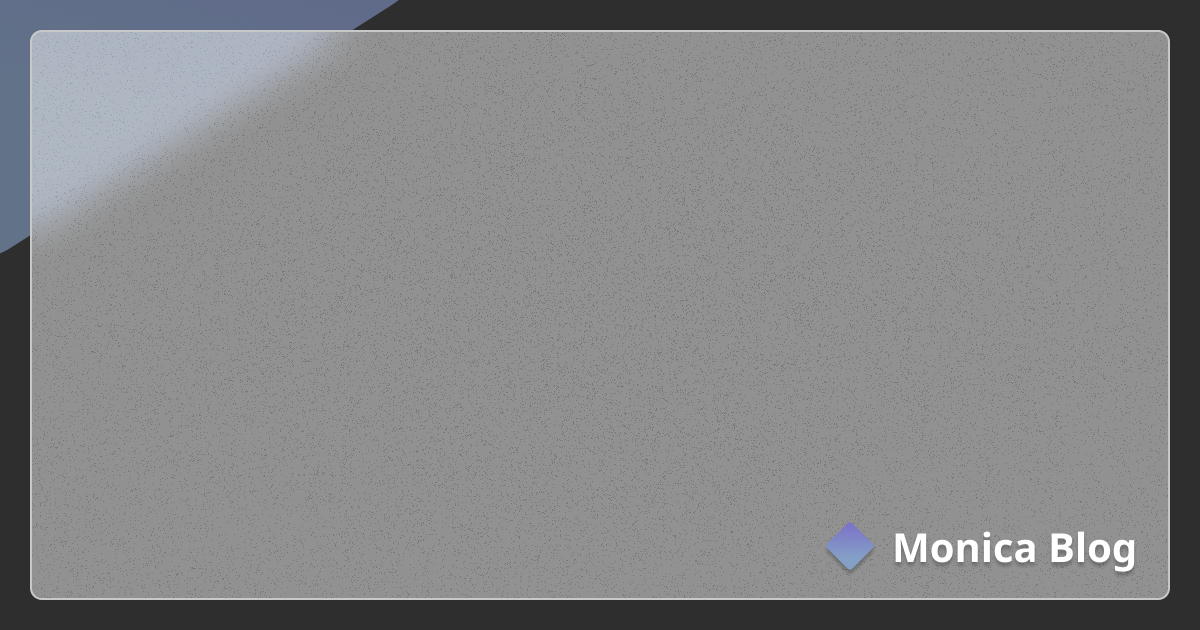
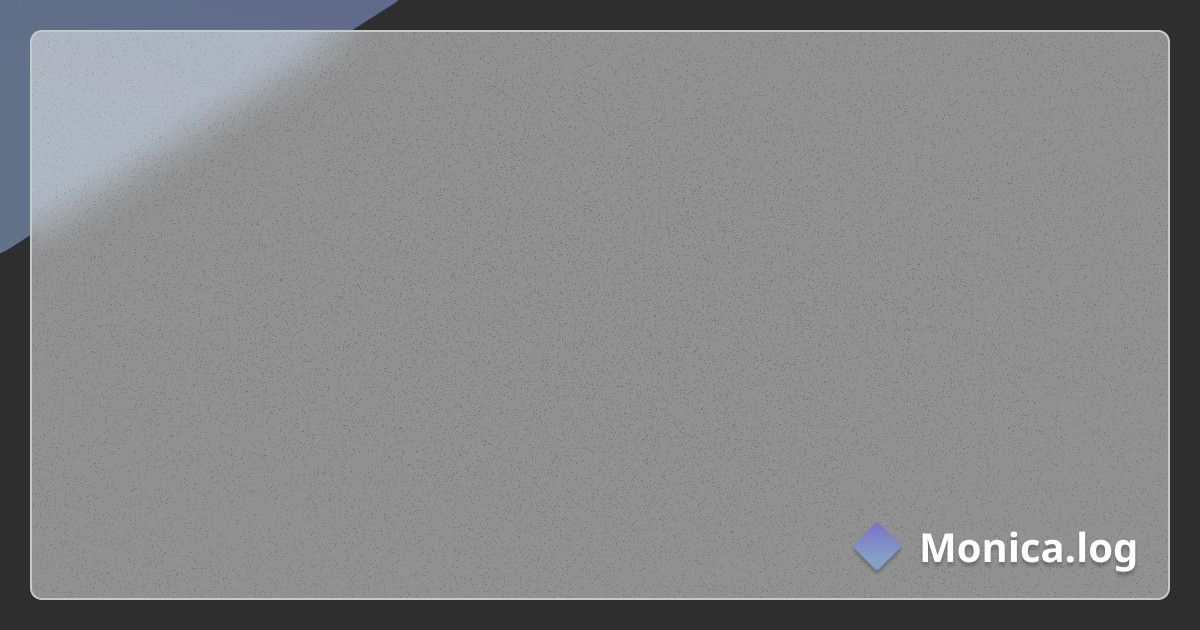
fix(style): or text centering, env configure

Changed region(s): [[0.6783, 0.8143, 0.9558, 0.9048]]

diff --git a/src/app/api/og/route.tsx b/src/app/api/og/route.tsx
@@ -1,10 +1,12 @@
 import { ImageResponse } from '@vercel/og';
 
-import { serverEnv } from '@/env/server';
-
 export const runtime = 'edge';
 
-const font = fetch(`${serverEnv.NEXT_PUBLIC_SITE_URL}/NotoSansJP-Bold.woff`).then((res) => res.arrayBuffer());
+/**
+ * このファイルは、VercelのEdge Functionsを使用しているため、serverEnvを使用できません。
+ */
+
+const font = fetch(`${process.env.NEXT_PUBLIC_SITE_URL}/NotoSansJP-Bold.woff`).then((res) => res.arrayBuffer());
 
 export async function GET(request: Request) {
   try {
@@ -19,7 +21,7 @@ export async function GET(request: Request) {
         <div
           style={{
             alignItems: 'center',
-            backgroundImage: `url(${serverEnv.NEXT_PUBLIC_SITE_URL}/ogp.png)`,
+            backgroundImage: `url(${process.env.NEXT_PUBLIC_SITE_URL}/ogp.png)`,
             backgroundSize: '100% 100%',
             display: 'flex',
             flexDirection: 'column',
@@ -37,7 +39,6 @@ export async function GET(request: Request) {
               fontSize: 16 * 4,
               fontStyle: 'normal',
               fontWeight: 'bold',
-              height: '100%',
               lineHeight: 1.3,
               wordWrap: 'break-word',
             }}
@@ -67,5 +68,5 @@ export async function GET(request: Request) {
 }
 
 export const getOgUrl = (title: string) => {
-  return `${serverEnv.NEXT_PUBLIC_SITE_URL}/api/og?title=${title}`;
+  return `${process.env.NEXT_PUBLIC_SITE_URL}/api/og?title=${title}`;
 };
